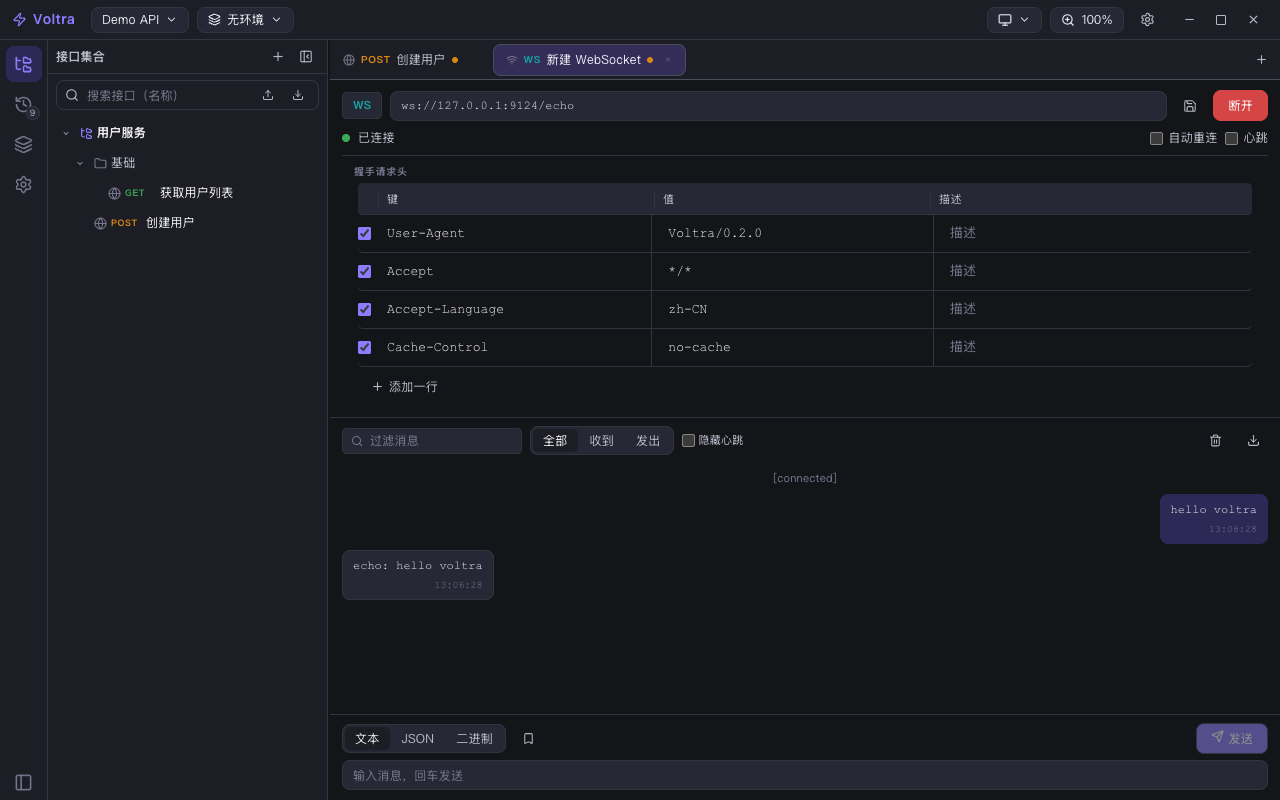
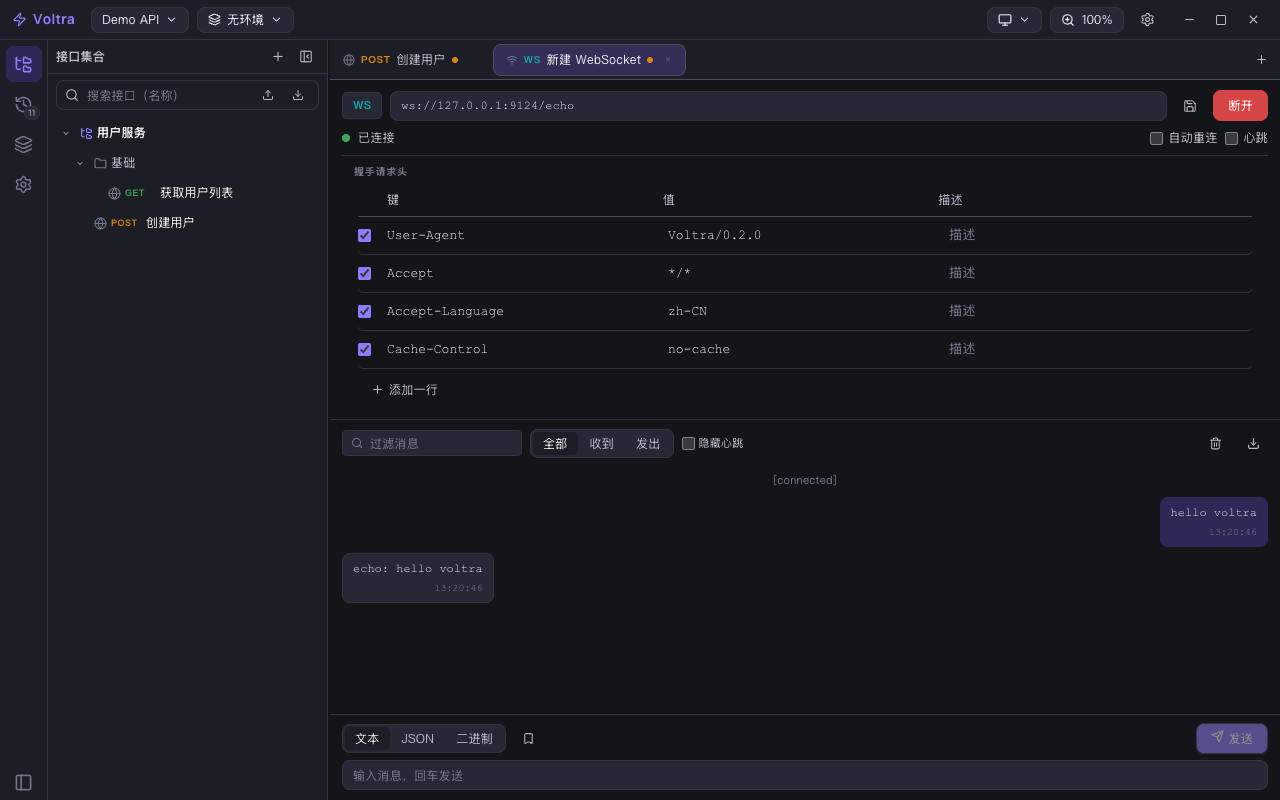
阶段24 补3: KV 表头 1:1 Postman（去灰底/去列竖线/全宽下划线）
用户贴 Postman 暗色 Params 原图要求 header 区域一比一复刻。对照差异：
- 表头去灰底（--bg-well 填充是我阶段24 的过度设计，Postman 表头与画布同色）
- 列间竖线全部去掉（Postman 纯留白分列，无竖线）
- 表头保留一条全宽 1px 下划线，提亮到 --border-strong（暗色下清晰）
- 表头字号 11px → 12px（对齐 Postman 标签尺寸）
- 聚焦单元格不再变底（--bg-well），只保留品牌色下划线
KvEditor（Params/Headers/WS 握手头）+ form-data 表同改；明暗 4x 截图对照。

diff --git a/frontend/src/components/common/KvEditor.vue b/frontend/src/components/common/KvEditor.vue
@@ -91,38 +91,16 @@ function removeRow(idx: number) {
   align-items: center;
   gap: 8px;
 }
+/* 1:1 Postman：表头无底色（与画布同色），只有一条全宽 1px 下划线；
+   列之间不画竖线（纯留白分隔）——之前加灰底+竖线是过度设计，实机对比图确认去掉 */
 .kve-head {
-  font-size: 11px;
+  font-size: 12px;
   color: var(--text-dim);
-  letter-spacing: 0.2px;
-  padding: 8px 8px 6px;
-  background: var(--bg-well);
-  border-radius: var(--radius-sm);
-  border-bottom: 1px solid var(--border);
+  padding: 8px 8px 7px;
+  border-bottom: 1px solid var(--border-strong);
 }
 .kve-head > span:not(:first-child):not(:last-child) {
   flex: 1;
-}
-/* 列分隔线（对齐 Postman 参数表）：复选 | key | value | desc 之间各 1px 竖线。
-   行内画在"左列"右缘；最后一列（value/desc）不画，删除按钮列之前留白。 */
-.kve-head > span {
-  display: flex;
-  align-items: center;
-  align-self: stretch;
-}
-.kve-cb,
-.kve-row input[type='checkbox'] {
-  border-right: 1px solid var(--border);
-}
-.kve-head > span:nth-child(2),
-.kve-row .kve-in {
-  border-right: 1px solid var(--border);
-}
-.kve-row .kve-in:last-of-type {
-  border-right: none;
-}
-.kve-head.desc > span:nth-child(3) {
-  border-right: 1px solid var(--border);
 }
 .kve-sp {
   width: 30px;
@@ -162,8 +140,8 @@ function removeRow(idx: number) {
   outline: none;
   transition: background var(--ease), box-shadow var(--ease);
 }
+/* 1:1 Postman：聚焦只出品牌色下划线，单元格不变底 */
 .kve-in:focus {
-  background: var(--bg-well);
   box-shadow: inset 0 -2px 0 var(--brand);
 }
 .kve-row.disabled .kve-in,

diff --git a/frontend/src/components/request/BodyTab.vue b/frontend/src/components/request/BodyTab.vue
@@ -258,30 +258,12 @@ function removeFormRow(f: FormField) {
   align-items: center;
   gap: 8px;
 }
+/* 1:1 Postman（与 KvEditor 一致）：表头无底色，只有一条全宽下划线，列间不画竖线 */
 .fd-head {
-  font-size: 11px;
+  font-size: 12px;
   color: var(--text-dim);
-  letter-spacing: 0.2px;
-  padding: 8px 8px 6px;
-  background: var(--bg-well);
-  border-radius: var(--radius-sm);
-  border-bottom: 1px solid var(--border);
-}
-/* 列分隔线（与 KvEditor 一致）：复选 | key 之间 1px 竖线；
-   type 列靠 select 自身的描边分隔，value 为末列不画线 */
-.fd-head > span {
-  display: flex;
-  align-items: center;
-  align-self: stretch;
-}
-.fd-cb,
-.fd-row input[type='checkbox'] {
-  border-right: 1px solid var(--border);
-}
-.fd-head > span:nth-child(2),
-.fd-head > span:nth-child(3),
-.fd-row input:nth-of-type(2) {
-  border-right: 1px solid var(--border);
+  padding: 8px 8px 7px;
+  border-bottom: 1px solid var(--border-strong);
 }
 .fd-cb {
   width: 13px;
@@ -331,8 +313,8 @@ function removeFormRow(f: FormField) {
   outline: none;
   transition: background var(--ease), box-shadow var(--ease);
 }
+/* 1:1 Postman：聚焦只出品牌色下划线，单元格不变底 */
 .fd-in:focus {
-  background: var(--bg-well);
   box-shadow: inset 0 -2px 0 var(--brand);
 }
 .fd-type {
